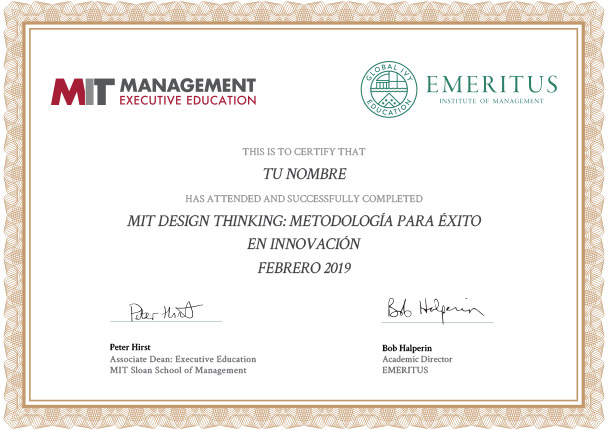
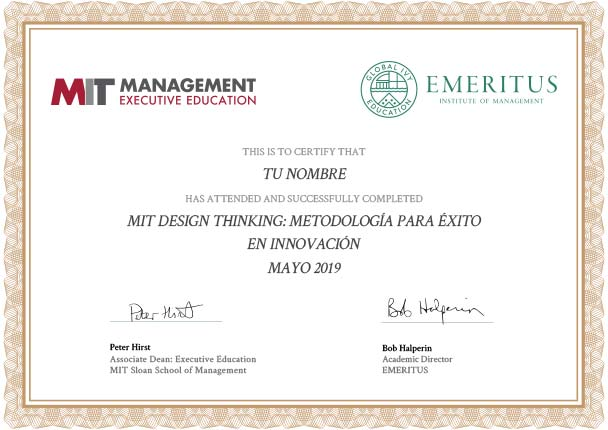
ajustes de fechas

diff --git a/Transformacion-Digital/index.php b/Transformacion-Digital/index.php
@@ -28,20 +28,6 @@
     <link rel="shortcut icon" type="image/png" href="../assets/img/png/emfavicon.png" />
 
 
-    <!-- Javascript Files -->
-    <script type="text/javascript" src="../assets/libs/jquery-3.3.1.min.js"></script> <!-- jQuery -->
-    <script src="../assets/libs/mdl/material.min.js"></script> <!-- Material Design -->
-    <script src="../assets/js/main.js"></script> <!-- Custom Functionality -->
-    <script src="../assets/js/materialize.min.js"></script> <!-- Materialize Libraries -->
-    <script src="https://cdnjs.cloudflare.com/ajax/libs/jquery-modal/0.9.1/jquery.modal.min.js"></script>
-    <!-- Modals -->
-    <script type="text/javascript" src="../assets/libs/slick/slick.js"></script> <!-- Slick JS -->
-    <script src="../assets/js/onkeypress.js"></script> <!-- Input number JS -->
-    <script src="https://unpkg.com/aos@next/dist/aos.js"></script> <!-- AOS Animations Libraries -->
-    <script type="text/javascript" src="https://latam.emeritus.org/programas/assets/js/countries-latam.js"></script>
-    <!-- Countries Script provided by Ruchira's Team -->
-    <script type="text/javascript" src="../assets/js/logs.js"></script>
-
     <!-- Styling -->
     <link rel="stylesheet" href="../assets/css/stylesheet.css"> <!-- Custom Styling -->
     <link rel="stylesheet" href="../assets/libs/mdl/material.min.css"> <!-- Material Design -->
@@ -49,7 +35,19 @@
     <!-- Modals -->
     <link rel="stylesheet" href="../assets/libs/slick/slick.css"> <!-- Slick Slider -->
     <link rel="stylesheet" href="../assets/libs/slick/slick-theme.css"> <!-- Slick Slider -->
-    <link rel="stylesheet" href="https://unpkg.com/aos@next/dist/aos.css" /> <!-- AOS Animations -->
+    <!-- Javascript Files -->
+    <script type="text/javascript" src="../assets/libs/jquery-3.3.1.min.js"></script> <!-- jQuery -->
+    <script src="../assets/libs/mdl/material.min.js"></script> <!-- Material Design -->
+    <script src="../assets/js/main.js"></script> <!-- Custom Functionality -->
+    <script src="../assets/js/materialize.js"></script> <!-- Materialize Libraries -->
+    <script src="../assets/js/materialize.min.js"></script> <!-- Materialize Libraries -->
+    <script src="https://cdnjs.cloudflare.com/ajax/libs/jquery-modal/0.9.1/jquery.modal.min.js"></script>
+    <!-- Modals -->
+    <script type="text/javascript" src="../assets/libs/slick/slick.js"></script> <!-- Slick JS -->
+    <script src="../assets/js/onkeypress.js"></script> <!-- Input number JS -->
+    <!-- Countries Script provided by Ruchira's Team -->
+    <script type="text/javascript" src="../assets/js/logs.js"></script>
+    <!-- Script for register the UTM parameters in Logs -->
 
 
 </head>
@@ -166,7 +164,7 @@
 
                         <div class="fechas">
                             <div class="fecha-title fs14 robotoRe gris6E">Termina</div>
-                            <div class="fecha fs18 robotoRe negro">09/11/2019</div>
+                            <div class="fecha fs18 robotoRe negro">09/09/2019</div>
                         </div>
                     </div>
 
@@ -320,7 +318,7 @@
                     </div>
 
                     <div class="button-container">
-                        <input type="hidden" name="lead_source" id="lead_source" value="Web">
+                        <input type="hidden" name="lead_source" id="lead_source" value="">
                         <input type="hidden" name="utm_source" id="utm_source" value="">
                         <input type="hidden" name="utm_medium" id="utm_medium" value="">
                         <input type="hidden" name="utm_term" id="utm_term" value="">

diff --git a/Estrategias-Digitales/Thank-you-page-ED.php b/Estrategias-Digitales/Thank-you-page-ED.php
@@ -19,9 +19,9 @@ j=d.createElement(s),dl=l!='dataLayer'?'&l='+l:'';j.async=true;j.src=
 <!-- End Google Tag Manager -->
 
   <meta charset="utf-8">
-  <title>Gracias por tu interés en Transformación Digital</title>
+  <title>Gracias por tu interés en Estrategias Digitales</title>
   <meta content="width=device-width, initial-scale=1" name="viewport">
-  <meta http-equiv="refresh" CONTENT="1;URL= https://bit.ly/2PO25OO">
+  <meta http-equiv="refresh" CONTENT="1;URL= http://bit.ly/2vxSYJl">
   <link rel="stylesheet" href="assets/css/stylesheet.css">
   <link href="assets/css/thank-you-page.css" rel="stylesheet" type="text/css">
   <link href="assets/img/png/emfavicon.png" rel="shortcut icon" type="image/x-icon">
@@ -40,18 +40,18 @@ height="0" width="0" style="display:none;visibility:hidden"></iframe></noscript>
 <!-- End Google Tag Manager (noscript) -->
 
     <div class="c-thank-desk">
-      <div class="logo"><a href="https://latam.emeritus.org/programas/Transformacion-Digital/" target="_blank"><img src="assets/img/svg/emeritus-logo-complete-TYP.svg" alt=""></a></div>
+      <div class="logo"><a href="https://latam.emeritus.org/programas/Estrategias-Digitales/" target="_blank"><img src="assets/img/svg/emeritus-logo-complete-TYP.svg" alt=""></a></div>
       <div class="c-thank-cont">
         <div class="c-icon-check"><img src="assets/img/svg/check.svg"></div>
         <div class="c-thank-tittles">
           <div class="text-tittle-pri fs50">¡Gracias!</div>
           <div class="text-tittle-sub fs22">Gracias por tu interés en el programa
-            <br><strong>"Transformación Digital: Transformación de los negocios a gran escal"</strong></div>
+            <br><strong>"Estrategias Digitales: Innovación empresarial y nuevos modelos de negocio"</strong></div>
         </div>
         <div class="c-button-link">
-          <div class="button-text fs18">Si tu descarga no comienza,</div><a target="_blank" href="https://bit.ly/2PO25OO" download="Folleto-Digital_Marketing-CBS" class="btn-link w-button fs18" id="download">da clic aquí</a></div>
+          <div class="button-text fs18">Si tu descarga no comienza,</div><a target="_blank" href="http://bit.ly/2vxSYJl" download="Folleto-Digital_Marketing-CBS" class="btn-link w-button fs18" id="download">da clic aquí</a></div>
         <div class="thank-line"></div>
-        <div class="button-thank-tittle fs34">¿Listo para el próximo paso?</div><a href="https://bit.ly/2PeMK8K" class="btn-thank fs20 w-button" id="btn-apply-now">Llena la solicitud</a></div>
+        <div class="button-thank-tittle fs34">¿Listo para el próximo paso?</div><a href="http://bit.ly/2M5RwYW" class="btn-thank fs20 w-button" id="btn-apply-now">Llena la solicitud</a></div>
       <div class="c-thank-footer-desk">
       <div class="thank-footer-tittle">Conéctate con nosotros</div>
       <div class="thank-footer-icons">
@@ -70,7 +70,7 @@ height="0" width="0" style="display:none;visibility:hidden"></iframe></noscript>
     (function() {
     function async_load(){
     var s = document.createElement('script'); s.type = 'text/javascript';
-    s.src = ('https:' == document.location.protocol ? 'https://pi' : 'https://cdn') + '.pardot.com/pd.js';
+    s.src = ('https:' == document.location.protocol ? 'https://pi' : 'http://cdn') + '.pardot.com/pd.js';
     var c = document.getElementsByTagName('script')[0]; c.parentNode.insertBefore(s, c);    
     }
     

diff --git a/Estrategias-Digitales/index.php b/Estrategias-Digitales/index.php
@@ -28,21 +28,6 @@
     <link rel="shortcut icon" type="image/png" href="../assets/img/png/emfavicon.png" />
 
 
-    <!-- Javascript Files -->
-    <script type="text/javascript" src="../assets/libs/jquery-3.3.1.min.js"></script> <!-- jQuery -->
-    <script src="../assets/libs/mdl/material.min.js"></script> <!-- Material Design -->
-    <script src="../assets/js/main.js"></script> <!-- Custom Functionality -->
-    <script src="../assets/js/materialize.min.js"></script> <!-- Materialize Libraries -->
-    <script src="https://cdnjs.cloudflare.com/ajax/libs/jquery-modal/0.9.1/jquery.modal.min.js"></script>
-    <!-- Modals -->
-    <script type="text/javascript" src="../assets/libs/slick/slick.js"></script> <!-- Slick JS -->
-    <script src="../assets/js/onkeypress.js"></script> <!-- Input number JS -->
-    <script src="https://unpkg.com/aos@next/dist/aos.js"></script> <!-- AOS Animations Libraries -->
-    <script type="text/javascript" src="https://latam.emeritus.org/programas/assets/js/countries-latam.js"></script>
-    <!-- Countries Script provided by Ruchira's Team -->
-    <script type="text/javascript" src="../assets/js/logs.js"></script>
-    <!-- Script for register the UTM parameters in Logs -->
-
     <!-- Styling -->
     <link rel="stylesheet" href="../assets/css/stylesheet.css"> <!-- Custom Styling -->
     <link rel="stylesheet" href="../assets/libs/mdl/material.min.css"> <!-- Material Design -->
@@ -50,7 +35,19 @@
     <!-- Modals -->
     <link rel="stylesheet" href="../assets/libs/slick/slick.css"> <!-- Slick Slider -->
     <link rel="stylesheet" href="../assets/libs/slick/slick-theme.css"> <!-- Slick Slider -->
-    <link rel="stylesheet" href="https://unpkg.com/aos@next/dist/aos.css" /> <!-- AOS Animations -->
+    <!-- Javascript Files -->
+    <script type="text/javascript" src="../assets/libs/jquery-3.3.1.min.js"></script> <!-- jQuery -->
+    <script src="../assets/libs/mdl/material.min.js"></script> <!-- Material Design -->
+    <script src="../assets/js/main.js"></script> <!-- Custom Functionality -->
+    <script src="../assets/js/materialize.js"></script> <!-- Materialize Libraries -->
+    <script src="../assets/js/materialize.min.js"></script> <!-- Materialize Libraries -->
+    <script src="https://cdnjs.cloudflare.com/ajax/libs/jquery-modal/0.9.1/jquery.modal.min.js"></script>
+    <!-- Modals -->
+    <script type="text/javascript" src="../assets/libs/slick/slick.js"></script> <!-- Slick JS -->
+    <script src="../assets/js/onkeypress.js"></script> <!-- Input number JS -->
+    <!-- Countries Script provided by Ruchira's Team -->
+    <script type="text/javascript" src="../assets/js/logs.js"></script>
+    <!-- Script for register the UTM parameters in Logs -->
 
 
 </head>
@@ -167,7 +164,7 @@
 
                         <div class="fechas">
                             <div class="fecha-title fs14 robotoRe gris6E">Termina</div>
-                            <div class="fecha fs18 robotoRe negro">26/09/2019</div>
+                            <div class="fecha fs18 robotoRe negro">26/08/2019</div>
                         </div>
                     </div>
 

diff --git a/Design-Thinking/index.php b/Design-Thinking/index.php
@@ -50,20 +50,6 @@
     <link rel="shortcut icon" type="image/png" href="../assets/img/png/emfavicon.png" />
 
 
-    <!-- Javascript Files -->
-    <script type="text/javascript" src="../assets/libs/jquery-3.3.1.min.js"></script> <!-- jQuery -->
-    <script src="../assets/libs/mdl/material.min.js"></script> <!-- Material Design -->
-    <script src="../assets/js/main.js"></script> <!-- Custom Functionality -->
-    <script src="../assets/js/materialize.min.js"></script> <!-- Materialize Libraries -->
-    <script src="https://cdnjs.cloudflare.com/ajax/libs/jquery-modal/0.9.1/jquery.modal.min.js"></script>
-    <!-- Modals -->
-    <script type="text/javascript" src="../assets/libs/slick/slick.js"></script> <!-- Slick JS -->
-    <script src="../assets/js/onkeypress.js"></script> <!-- Input number JS -->
-    <script src="https://unpkg.com/aos@next/dist/aos.js"></script> <!-- AOS Animations Libraries -->
-    <script type="text/javascript" src="https://latam.emeritus.org/programas/assets/js/countries-latam.js"></script>
-    <!-- Countries Script provided by Ruchira's Team -->
-    <script type="text/javascript" src="../assets/js/logs.js"></script>
-
     <!-- Styling -->
     <link rel="stylesheet" href="../assets/css/stylesheet.css"> <!-- Custom Styling -->
     <link rel="stylesheet" href="../assets/libs/mdl/material.min.css"> <!-- Material Design -->
@@ -71,7 +57,19 @@
     <!-- Modals -->
     <link rel="stylesheet" href="../assets/libs/slick/slick.css"> <!-- Slick Slider -->
     <link rel="stylesheet" href="../assets/libs/slick/slick-theme.css"> <!-- Slick Slider -->
-    <link rel="stylesheet" href="https://unpkg.com/aos@next/dist/aos.css" /> <!-- AOS Animations -->
+    <!-- Javascript Files -->
+    <script type="text/javascript" src="../assets/libs/jquery-3.3.1.min.js"></script> <!-- jQuery -->
+    <script src="../assets/libs/mdl/material.min.js"></script> <!-- Material Design -->
+    <script src="../assets/js/main.js"></script> <!-- Custom Functionality -->
+    <script src="../assets/js/materialize.js"></script> <!-- Materialize Libraries -->
+    <script src="../assets/js/materialize.min.js"></script> <!-- Materialize Libraries -->
+    <script src="https://cdnjs.cloudflare.com/ajax/libs/jquery-modal/0.9.1/jquery.modal.min.js"></script>
+    <!-- Modals -->
+    <script type="text/javascript" src="../assets/libs/slick/slick.js"></script> <!-- Slick JS -->
+    <script src="../assets/js/onkeypress.js"></script> <!-- Input number JS -->
+    <!-- Countries Script provided by Ruchira's Team -->
+    <script type="text/javascript" src="../assets/js/logs.js"></script>
+    <!-- Script for register the UTM parameters in Logs -->
 
 
 </head>

diff --git a/Design-Thinking/Thank-you-page-DT.php b/Design-Thinking/Thank-you-page-DT.php
@@ -24,8 +24,8 @@ j=d.createElement(s),dl=l!='dataLayer'?'&l='+l:'';j.async=true;j.src=
   <meta http-equiv="refresh" CONTENT="1;URL= https://bit.ly/2JxfPce">
   <link rel="stylesheet" href="assets/css/stylesheet.css">
   <link href="assets/css/thank-you-page.css" rel="stylesheet" type="text/css">
-  <link href="emfavicon.png" rel="shortcut icon" type="image/x-icon">
-  <link href="emfavicon.png" rel="apple-touch-icon">
+  <link href="assets/img/png/emfavicon.png" rel="shortcut icon" type="image/x-icon">
+  <link href="assets/img/png/emfavicon.png" rel="apple-touch-icon">
 </head>
 <body class="altura-auto">
 

diff --git a/Marketing-Digital/Thank-you-page-MD.php b/Marketing-Digital/Thank-you-page-MD.php
@@ -24,8 +24,8 @@ j=d.createElement(s),dl=l!='dataLayer'?'&l='+l:'';j.async=true;j.src=
   <meta http-equiv="refresh" CONTENT="1;URL= https://bit.ly/2IZ7mOJ">
   <link rel="stylesheet" href="assets/css/stylesheet.css">
   <link href="assets/css/thank-you-page.css" rel="stylesheet" type="text/css">
-  <link href="emfavicon.png" rel="shortcut icon" type="image/x-icon">
-  <link href="emfavicon.png" rel="apple-touch-icon">
+  <link href="assets/img/png/emfavicon.png" rel="shortcut icon" type="image/x-icon">
+  <link href="assets/img/png/emfavicon.png" rel="apple-touch-icon">
 </head>
 <body class="altura-auto">
 
